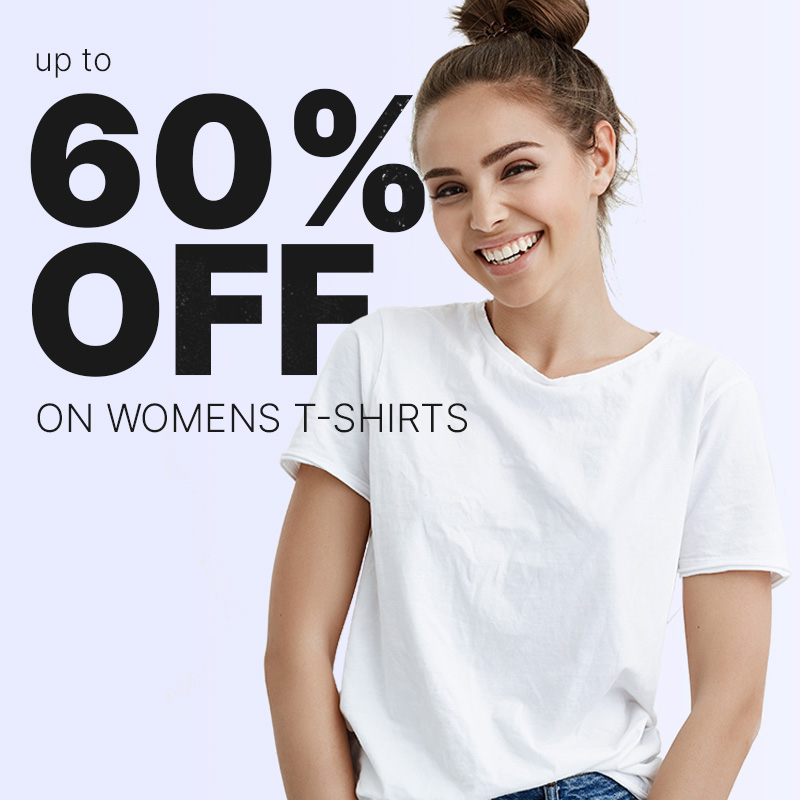
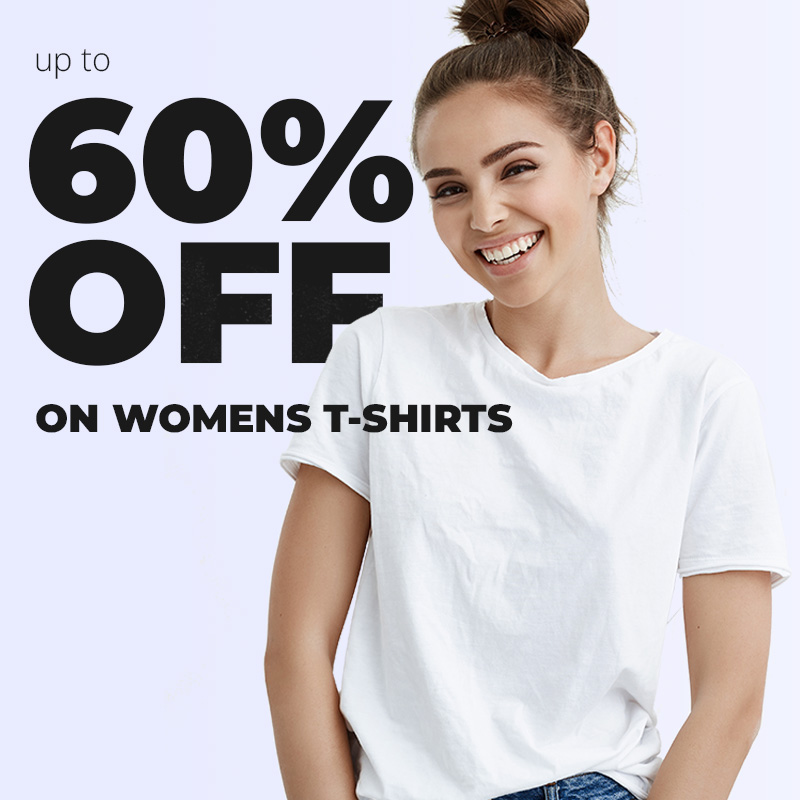
changing fonts

diff --git a/src/pages/products/[...slug].tsx b/src/pages/products/[...slug].tsx
@@ -5,7 +5,61 @@ import SortSelectMenu from "~/components/Filters/SortSelectMenu";
 import ToggleFilters from "~/components/Filters/ToggleFilters";
 import Products from "~/components/Products";
 
+interface PaginationProps {
+  currentPage: number;
+  setCurrentPage: React.Dispatch<React.SetStateAction<number>>;
+}
+
+const Pagination = ({ currentPage, setCurrentPage }: PaginationProps) => {
+  const totalResults = 200;
+  const pageSize = 12;
+  const totalPages = Math.ceil(totalResults / pageSize);
+  const isThereNextPage = currentPage < totalPages;
+  return (
+    <div className="flex items-center justify-center gap-16 p-4">
+      <p
+        role="button"
+        className={`${
+          currentPage <= 1 ? "cursor-default text-gray-500" : "text-gray-800"
+        } font-semibold`}
+        onClick={() => setCurrentPage((prev) => (prev > 1 ? prev - 1 : 1))}
+      >
+        Previous
+      </p>
+      <div className="flex items-center">
+        <label htmlFor="pagination" className=" pr-2 text-gray-600">
+          Page
+        </label>
+        <select
+          id="pagination"
+          className="pl-4"
+          value={currentPage}
+          onChange={(e: React.ChangeEvent<HTMLSelectElement>) =>
+            setCurrentPage(parseInt(e.target.value))
+          }
+        >
+          {[...Array(totalPages).keys()].map((el) => (
+            <option key={el + 1}>{el + 1}</option>
+          ))}
+        </select>
+        <span className="pl-2 text-gray-600"> of {totalPages}</span>
+      </div>
+      <p
+        role="button"
+        className="font-semibold"
+        onClick={() =>
+          setCurrentPage((prev) => (isThereNextPage ? prev + 1 : prev))
+        }
+      >
+        Next
+      </p>
+    </div>
+  );
+};
+
 const ProductsPage = () => {
+  const [currentPage, setCurrentPage] = useState(1);
+
   const [showFilters, setShowFilters] = useState(true);
   const [showSort, setShowSort] = useState(false);
   return (
@@ -17,17 +71,20 @@ const ProductsPage = () => {
         />
         <SortSelectMenu showSort={showSort} setShowSort={setShowSort} />
       </section>
-      <section className=" flex gap-4 overflow-hidden pt-8">
+      <section className="flex gap-4 overflow-hidden pt-8">
         <div
           className={`${
             showFilters ? "" : "-ml-64"
-          }  k h-screen w-64 transition-all duration-500`}
+          } k h-screen min-w-[250px] transition-all duration-500`}
         >
           <SizeFilter />
           <ColorFilter />
         </div>
-        <Products />
+        <Products currentPage={currentPage} />
       </section>
+      <div className="mx-auto">
+        <Pagination currentPage={currentPage} setCurrentPage={setCurrentPage} />
+      </div>
     </main>
   );
 };

diff --git a/src/data/products.ts b/src/data/products.ts
@@ -2,6 +2,69 @@ import { type Prisma } from "@prisma/client";
 import { v4 as uuid } from "uuid";
 
 type ProductType = Prisma.ProductCreateInput;
+
+export const winterHat = {
+  name: "Cozy Patterned Woolen Winter Hat",
+  description:
+    "Stay warm and stylish this winter with our Cozy Patterned Woolen Winter Hat! Crafted with comfort and fashion in mind, this hat is the perfect accessory to keep you snug during the chilly months.",
+  types: ["MEN"],
+  price: 79,
+  colors: ["RED", "BLUE", "BLACK"],
+  sizes: ["S", "M", "L"],
+  SKU: uuid(),
+  collection: {
+    connect: {
+      id: 1,
+    },
+  },
+  discount: {
+    connect: {
+      id: 1,
+    },
+  },
+  category: {
+    connect: {
+      id: 42,
+    },
+  },
+  inventory: {
+    create: {
+      quantity: 200,
+    },
+  },
+  images: {
+    createMany: {
+      data: [
+        {
+          imageURL: "/assets/product-images/cozy-woolen-winter-hat--red.png",
+          color: "RED",
+        },
+        {
+          imageURL: "/assets/product-images/cozy-woolen-winter-hat--red--2.png",
+          color: "RED",
+        },
+        {
+          imageURL: "/assets/product-images/cozy-woolen-winter-hat--red--3.png",
+          color: "RED",
+        },
+        {
+          imageURL: "/assets/product-images/cozy-woolen-winter-hat--blue.png",
+          color: "BLUE",
+        },
+        {
+          imageURL:
+            "/assets/product-images/cozy-woolen-winter-hat--blue--2.png",
+          color: "BLUE",
+        },
+        {
+          imageURL: "/assets/product-images/cozy-woolen-winter-hat--black.png",
+          color: "BLACK",
+        },
+      ],
+    },
+  },
+};
+
 export const products: ProductType[] = [
   {
     name: "Cozy Patterned Woolen Winter Hat",

diff --git a/src/components/Products.tsx b/src/components/Products.tsx
@@ -1,6 +1,6 @@
 import type { CategoryType, ProductColor, ProductSize } from "@prisma/client";
 import { useRouter } from "next/router";
-import React, { useMemo } from "react";
+import React, { useMemo, useState } from "react";
 import { api } from "~/utils/api";
 import ProductCard from "./ProductCard";
 
@@ -27,7 +27,7 @@ const Skeleton = () => {
   ));
 };
 
-const Products = () => {
+const Products = ({ currentPage }: { currentPage: number }) => {
   const router = useRouter();
   const { color, size, slug, sort } = router.query as {
     color: string | string[] | undefined;
@@ -41,7 +41,7 @@ const Products = () => {
       // .flat(1) is used so we get an array if color is both a string or a string[] , filter(Boolean) -> filter falsey values
       color: [color].flat(1).filter(Boolean) as ProductColor[],
       size: [size].flat(1).filter(Boolean) as ProductSize[],
-      type: slug?.[0]?.toUpperCase() as CategoryType,
+      type: [slug?.[0]?.toUpperCase() as CategoryType],
       slug: slug?.[1],
       sort,
     }),
@@ -59,10 +59,13 @@ const Products = () => {
   if (!data) return <h1>Something went wrong...</h1>;
 
   return (
-    <div className="grid w-full grow grid-cols-3 content-start  gap-2  ">
-      {data.map((product) => (
-        <ProductCard key={product.id} product={product} />
-      ))}
+    <div className="flex flex-col items-center gap-16">
+      {" "}
+      <div className="grid w-full grow grid-cols-3 content-start  gap-2  ">
+        {data.map((product) => (
+          <ProductCard key={product.id} product={product} />
+        ))}
+      </div>
     </div>
   );
 };

diff --git a/src/pages/product/[...slug].tsx b/src/pages/product/[...slug].tsx
@@ -110,13 +110,13 @@ const Product = ({
               <p className="text-gray-500">{category.name}</p>
             </Link>
           </div>
-          <div>
+          <div className="font-display">
             {discount && discount?.active && (
-              <p className="text-xl font-black text-green-600 ">
-                {discount?.discountPercent}% OFF
+              <p className="w-fit rounded-sm bg-teal-500 px-2 py-1 text-xl font-black text-gray-100 ">
+                -{discount?.discountPercent}%
               </p>
             )}
-
+            <div className="h-1"></div>
             <span className="text-2xl font-bold">{priceAfterDiscount}</span>
             {discount && discount?.active && (
               <span className="pl-2 text-xl  text-gray-500 line-through">
@@ -125,7 +125,7 @@ const Product = ({
             )}
           </div>
           <div>
-            <p className="text-2xl font-semibold">Colors</p>
+            <p className="font-display text-2xl font-semibold">Colors</p>
             <div className="h-2"></div>
             <div className="flex gap-2">
               {colors.map((c, i) => (
@@ -171,7 +171,7 @@ const Product = ({
                     s === selectedSize
                       ? "border-gray-800  text-gray-800"
                       : "border-gray-300  text-gray-500"
-                  } w-16 rounded-[3px] border py-2 text-center font-bold`}
+                  } font-display w-16 rounded-[3px] border py-2 text-center font-bold`}
                   key={i}
                 >
                   {s}

diff --git a/src/components/ProductCard.tsx b/src/components/ProductCard.tsx
@@ -56,21 +56,21 @@ const ProductCard = ({
               alt="Product image"
             />
             {product.discount ? (
-              <div className="absolute bottom-2 left-4 ">
-                <p className="font-bold">
+              <div className="absolute bottom-2 left-4 text-gray-900">
+                <p className="font-display w-fit rounded-sm bg-teal-500 px-1 font-bold text-white">
                   -{product.discount.discountPercent}%
                 </p>
                 <div className=" flex gap-2 ">
-                  <p className=" py-1 text-gray-500 line-through">
+                  <p className="font-display py-1 text-gray-500 line-through">
                     {priceBeforeDiscount}
                   </p>
-                  <p className="w-fit bg-gray-50 px-3 py-1 font-bold text-red-500">
+                  <p className="font-display w-fit bg-gray-50 px-3 py-1 font-bold text-pink-500">
                     {priceAfterDiscount}
                   </p>
                 </div>
               </div>
             ) : (
-              <p className="absolute bottom-2 left-4 w-fit bg-gray-50 px-3 py-1 font-bold">
+              <p className="font-display absolute bottom-2 left-4 w-fit bg-gray-50 px-3 py-1 font-bold">
                 {priceBeforeDiscount}
               </p>
             )}

diff --git a/src/pages/index.tsx b/src/pages/index.tsx
@@ -41,7 +41,9 @@ const PromoSlider = () => <SinglePageSlider slides={sliderPromos} />;
 const Hero = () => (
   <section className="relative w-full  overflow-hidden py-24">
     <div className="relative z-10 ">
-      <h1 className="text-7xl font-extrabold">Ready for winter?</h1>
+      <h1 className="font-display text-7xl font-extrabold">
+        Ready for winter?
+      </h1>
       <div className="h-8"></div>
       <p className="max-w-lg text-xl font-light text-gray-700">
         Winter Wardrobe Wonders to Keep You Warm and Smiling All Season Long!
@@ -80,7 +82,7 @@ const EventSlider = () => {
   return (
     <section className="flex w-full items-center gap-16 ">
       <div className="">
-        <h2 className="text-5xl font-extrabold">Cozy up!</h2>
+        <h2 className="font-display text-5xl font-extrabold">Cozy up!</h2>
         <div className="h-4"></div>
         <p className="text-xl font-light text-gray-700">
           Get Comfy with Our Winter Selection
@@ -106,7 +108,7 @@ const Trending = () => {
     });
   return (
     <section>
-      <h2 className="text-2xl font-semibold">Trending</h2>
+      <h2 className="font-display text-2xl font-black">Trending</h2>
       <div className="h-8"></div>
       {products && (
         <div className="w-full overflow-hidden">

diff --git a/src/components/layout.tsx b/src/components/layout.tsx
@@ -2,10 +2,13 @@ import Head from "next/head";
 import ModalsProvider from "~/context/modalsContext";
 import ShoppingBagProvider from "~/context/shoppingBagContext";
 import Nav from "./Nav";
-import { Inter } from "next/font/google";
+// import { Lato, Inter, Montserrat, Open_Sans } from "next/font/google";
 import Footer from "./Footer";
 
-const inter = Inter({ subsets: ["latin"] });
+// const inter = Open_Sans({
+//   subsets: ["latin"],
+//   weight: ["300", "400", "700"],
+// });
 
 const Layout: React.FC<React.PropsWithChildren> = ({ children }) => {
   return (
@@ -17,9 +20,7 @@ const Layout: React.FC<React.PropsWithChildren> = ({ children }) => {
             <meta name="description" content="Generated by create-t3-app" />
             <link rel="icon" href="/favicon.ico" />
           </Head>
-          <main
-            className={`${inter.className} min-h-[100dvh] bg-gray-50 text-gray-800`}
-          >
+          <main className={`font-body min-h-[100dvh] bg-gray-50 text-gray-800`}>
             <Nav />
             <section className="mx-auto min-h-[100dvh] max-w-[1600px] ">
               {children}

diff --git a/src/components/UI/SinglePageSlider.tsx b/src/components/UI/SinglePageSlider.tsx
@@ -45,9 +45,9 @@ const SinglePageSlider = ({ slides }: Props) => {
             <div
               className={`${
                 isVisible ? "opacity-100" : "opacity-0"
-              } absolute left-1/2 top-1/2 z-10 flex w-full -translate-x-1/2 -translate-y-1/2 flex-col items-center justify-center gap-4 transition-[opacity] duration-1000`}
+              } absolute left-1/2 top-1/2 z-10 flex w-full -translate-x-1/2 -translate-y-1/2 flex-col items-center justify-center gap-8 transition-[opacity] duration-1000`}
             >
-              <h2 className=" text-center text-5xl font-black uppercase text-gray-900">
+              <h2 className="font-display text-center text-5xl font-black uppercase text-gray-900">
                 {slide.title}
               </h2>
               <div className="w-fit">{slide.button}</div>

diff --git a/src/pages/_document.tsx b/src/pages/_document.tsx
@@ -1,0 +1,24 @@
+import { Html, Head, Main, NextScript } from "next/document";
+
+export default function Document() {
+  return (
+    <Html lang="en">
+      <Head>
+        <link rel="preconnect" href="https://fonts.googleapis.com" />
+        <link
+          rel="preconnect"
+          href="https://fonts.gstatic.com"
+          crossOrigin="anonymous"
+        />
+        <link
+          href="https://fonts.googleapis.com/css2?family=Open+Sans:wght@300;400;600&family=Montserrat:wght@400;600;700;900&display=swap"
+          rel="stylesheet"
+        />
+      </Head>
+      <body>
+        <Main />
+        <NextScript />
+      </body>
+    </Html>
+  );
+}

diff --git a/src/server/api/routers/product.ts b/src/server/api/routers/product.ts
@@ -43,10 +43,12 @@ export const productRouter = createTRPCRouter({
         type: z.nativeEnum(CategoryType).array().optional(),
         slug: z.string().optional(),
         sort: z.enum(["newest", "high-to-low", "low-to-high"]).optional(),
+        skip: z.number().positive().optional(),
       }),
     )
     .query(async ({ ctx, input }) => {
       const {
+        skip,
         collectionId,
         color = [],
         size = [],
@@ -91,6 +93,8 @@ export const productRouter = createTRPCRouter({
             },
           },
         },
+        take: 15,
+        skip,
         orderBy:
           sort === "newest"
             ? { createdAt: "desc" }

diff --git a/src/components/Cart/ShoppingBagIcon.tsx b/src/components/Cart/ShoppingBagIcon.tsx
@@ -9,7 +9,7 @@ const ShoppingBagIcon = () => {
         <div role="button" className="relative">
           <BsHandbag className="h-5  w-5" />
           {shoppingBag.length > 0 && (
-            <div className="absolute -left-1.5 top-3 flex h-5 w-5 items-center justify-center rounded-full bg-cyan-500 text-white">
+            <div className="absolute -left-1.5 top-3 flex h-5 w-5 items-center justify-center rounded-full bg-teal-500 text-white">
               <p className="text-xs">{shoppingBag.length}</p>
             </div>
           )}

diff --git a/src/components/NavLink.tsx b/src/components/NavLink.tsx
@@ -15,7 +15,7 @@ const NavLink = ({ link, text, onMouseOver, onMouseLeave, onClick }: Props) => {
       onClick={onClick}
       onMouseOver={onMouseOver}
       onMouseLeave={onMouseLeave}
-      className={`cursor-pointer  border-b-[3px] border-b-transparent  p-4 text-slate-700 hover:border-b-gray-900 hover:text-gray-900`}
+      className={`cursor-pointer  border-b-[5px] border-b-transparent  p-4 text-slate-700 hover:border-b-gray-800 hover:text-gray-900`}
     >
       <Link href={link}>{text}</Link>
     </li>
